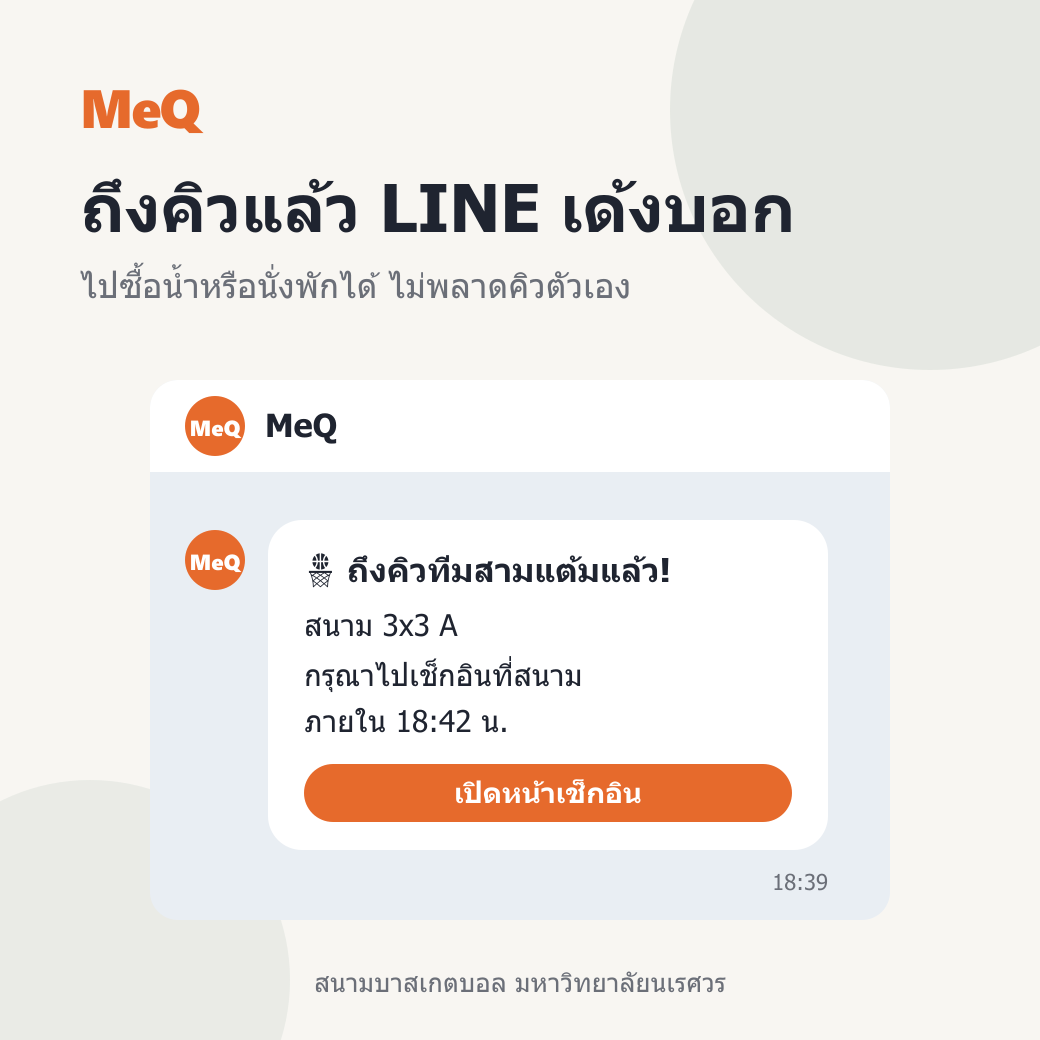
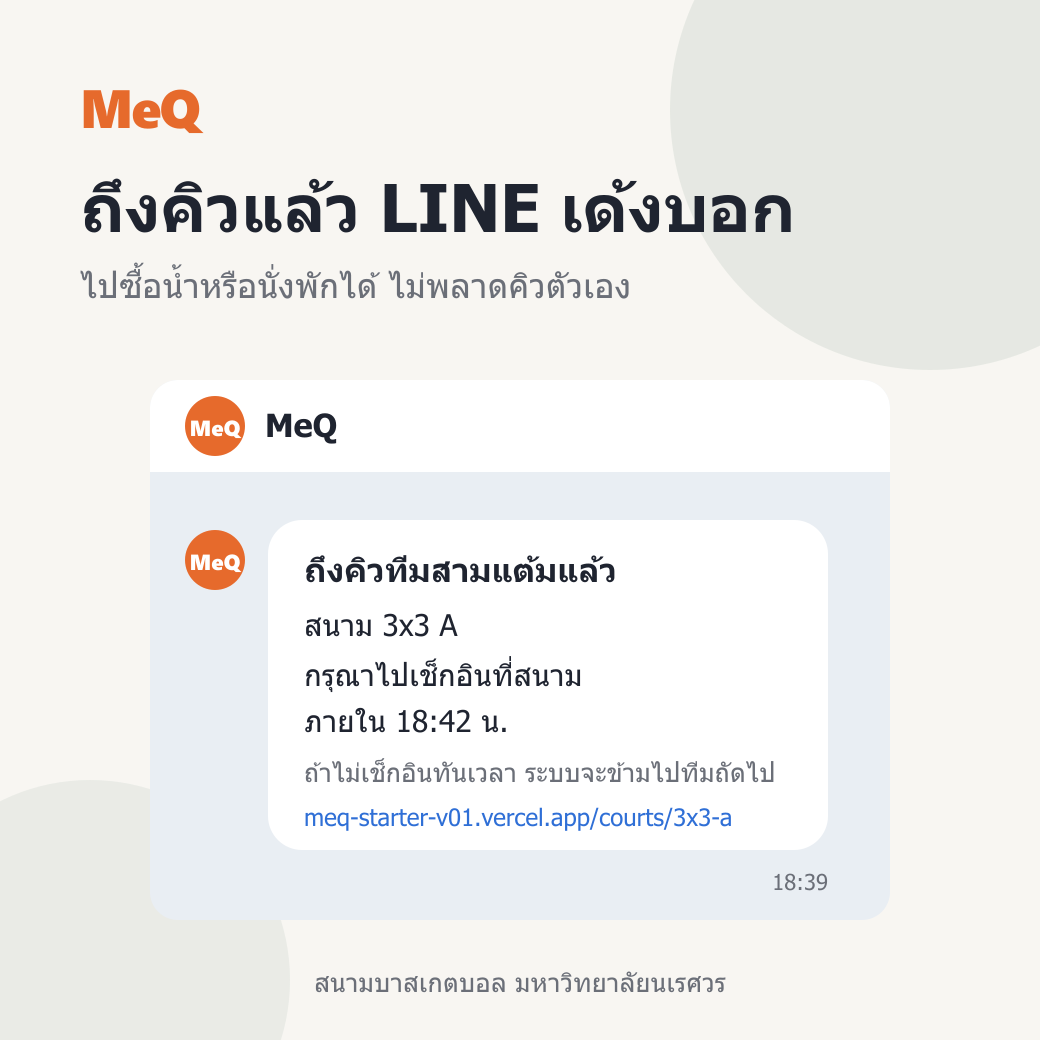
feat: plain-text LINE messages and next-in-line, invitation, result events
- Rewrite every LINE message as plain Thai text without emoji
- Notify team members when they become next in line, invitees when they
  are invited to a team, and players when a game result is final
- Dispatch right after queue, invitation, and score actions
- Regenerate the LINE OA feed image to match the real message

Changed region(s): [[0.2769, 0.7077, 0.7692, 0.8], [0.2769, 0.5231, 0.6462, 0.5846]]

diff --git a/app/courts/actions.ts b/app/courts/actions.ts
@@ -23,7 +23,8 @@ async function authenticatedClient(next: string) {
   return supabase;
 }
 
-function refreshQueue() { revalidatePath("/courts", "layout"); revalidatePath("/teams", "layout"); }
+// Queue changes can queue LINE messages (next in line, called to check in).
+function refreshQueue() { revalidatePath("/courts", "layout"); revalidatePath("/teams", "layout"); after(dispatchLineNotificationsQuietly); }
 
 export async function verifyCourtLocationAction(
   courtId: CourtId,
@@ -65,7 +66,7 @@ export async function leaveCourtQueueAction(formData: FormData) {
 
 export async function callNextQueueTeamAction(formData:FormData){
  const courtId=String(formData.get("courtId")) as CourtId;const supabase=await authenticatedClient(`/courts/${courtId}`);
- const{error}=await supabase.rpc("call_next_queue_team",{p_court_id:courtId});if(!error)after(dispatchLineNotificationsQuietly);refreshQueue();redirect(`/courts/${courtId}${error?`?error=${queueError(error)}`:"?notice=called"}#check-in`);
+ const{error}=await supabase.rpc("call_next_queue_team",{p_court_id:courtId});refreshQueue();redirect(`/courts/${courtId}${error?`?error=${queueError(error)}`:"?notice=called"}#check-in`);
 }
 
 export async function confirmTeamReadyAction(formData:FormData){

diff --git a/app/games/actions.ts b/app/games/actions.ts
@@ -2,6 +2,8 @@
 
 import { revalidatePath } from "next/cache";
 import { redirect } from "next/navigation";
+import { after } from "next/server";
+import { dispatchLineNotificationsQuietly } from "@/lib/line-dispatcher";
 import { createClient } from "@/lib/supabase/server";
 
 function code(error: { message?: string } | null) {
@@ -67,6 +69,8 @@ export async function submitTeamScoresAction(formData: FormData) {
     scores[userId] = value;
   }
   const { data, error } = await supabase.rpc("submit_team_scores", { p_game_id: id, p_scores: scores });
+  // A completed game queues result messages for every player.
+  if (!error) after(dispatchLineNotificationsQuietly);
   revalidatePath(`/games/${id}`); revalidatePath(`/games/${id}/scores`); revalidatePath(`/games/${id}/result`); revalidatePath("/courts", "layout");
   const result = Array.isArray(data) ? data[0] : data;
   redirect(error ? `/games/${id}/scores?error=${code(error)}` : result?.status === "COMPLETED" ? `/games/${id}/result` : `/games/${id}/scores?notice=submitted`);

diff --git a/app/teams/actions.ts b/app/teams/actions.ts
@@ -2,6 +2,8 @@
 
 import { revalidatePath } from "next/cache";
 import { redirect } from "next/navigation";
+import { after } from "next/server";
+import { dispatchLineNotificationsQuietly } from "@/lib/line-dispatcher";
 import { createClient } from "@/lib/supabase/server";
 import { normalizeTeamName, validateTeamName } from "@/lib/team-rules";
 import type { TeamType } from "@/lib/team-types";
@@ -51,6 +53,8 @@ export async function inviteTeamMemberAction(formData: FormData) {
   if (!valid) redirect("/teams?error=INVALID_REQUEST");
   const supabase = await authenticatedClient();
   const { error } = await supabase.rpc("invite_team_member", { p_team_id: teamId, p_user_id: userId });
+  // Tell the invitee on LINE.
+  if (!error) after(dispatchLineNotificationsQuietly);
   refreshTeamViews();
   redirect(`/teams/${teamId}${error ? `?error=${rpcError(error)}` : "?notice=invitation-sent"}`);
 }

diff --git a/PROGRESS.md b/PROGRESS.md
@@ -78,7 +78,8 @@
    - 2026-10-11: push migration `20261011090000` ขึ้น Supabase จริงแล้ว, ใส่ env 3 ตัวใน `.env.local` แล้ว, เจ้าของเพิ่มเพื่อน OA (@205hzelz) แล้ว
    - 2026-10-11: ทดสอบบน localhost สำเร็จ แจ้งซ่อมใหม่ → แอดมินได้ LINE, เปลี่ยนสถานะ → ผู้แจ้งได้ LINE (outbox = SENT, 1 attempt) ระหว่างทางแก้ LINE Login เสีย (Channel secret ใน Supabase ไม่ตรง + ใส่ Issuer URL `https://access.line.me`)
    - 2026-10-11: ขึ้นเว็บจริงครบ: Vercel env 4 ตัว (`NEXT_PUBLIC_APP_URL` ต้องเป็น type Config), Vault 2 ค่า, ทดสอบ cron → `/api/line/dispatch` → LINE ส่งสำเร็จ (เคย 401 เพราะใส่ secret ผิดตัวใน Vault)
-   - **รอออกแบบ:** ข้อความ LINE แยกตามบทบาท (แอดมิน / ผู้แจ้ง / สมาชิกทีม) เจ้าของจะออกแบบเอง ตอนนี้ข้อความอยู่ใน trigger ของ migration `20261011090000` และยังมีอีโมจิ ถ้าแก้ต้องทำ migration ใหม่ที่ `create or replace` ฟังก์ชัน `private.notify_*`
+   - 2026-10-12: ข้อความ LINE เป็นข้อความธรรมดาไม่มีอีโมจิ (เจ้าของเลือก) และเพิ่ม 3 เหตุการณ์: คิวถัดไป, ถูกเชิญเข้าทีม, ผลการแข่งขัน migration `20261012090000_line_message_copy.sql` (branch `docs/diagrams-and-line-copy`) **ยังไม่ push ขึ้น Supabase**
+   - 2026-10-12: อัปเดต diagram ทั้งหมด + PNG สำหรับเล่มใน `docs/diagrams/rendered/`
    - ⚠ Supabase secret key ที่ใช้ใน `.env.local` เคยถูกส่งในแชต เจ้าของเลือกยังไม่เปลี่ยน ควรสร้างใหม่และลบตัวเดิม (ขึ้นต้น `sb_secret_WRz1J`) (ตอนนี้ใส่ใน Vercel แล้วด้วย ถ้าเปลี่ยนต้องอัปเดตทั้ง `.env.local` และ Vercel)
    - ยังไม่มี: ปุ่มเพิ่มเพื่อน OA ในหน้าโปรไฟล์ สำหรับคนที่กดข้ามตอนล็อกอิน (ต้องใช้ลิงก์ OA)
 3. **หน้าคิวอัปเดตเอง** — ✅ ขึ้นเว็บจริงแล้ว (PR #4): หน้า `/courts/*` และ `/games/*` รีเฟรชข้อมูลจาก server ทุก 10 วินาที หยุดเมื่อแท็บซ่อน/ออฟไลน์/กำลังพิมพ์ แสดง "อัปเดตอัตโนมัติ · N วินาทีที่แล้ว" (`components/live-refresh.tsx`) เลือก polling แทน Realtime เพราะไม่ต้องเปิด RLS ให้ client อ่านตารางคิวโดยตรง

diff --git a/docs/architecture/line-notifications.md b/docs/architecture/line-notifications.md
@@ -6,7 +6,9 @@
 flowchart LR
     M["maintenance_reports insert"] -->|trigger| O["line_notifications<br/>PENDING"]
     H["maintenance_status_history insert"] -->|trigger| O
-    Q["queue_entries → CALLED"] -->|trigger| O
+    Q["queue_entries → next / CALLED"] -->|trigger| O
+    I["team_invitations insert"] -->|trigger| O
+    G["games → COMPLETED"] -->|trigger| O
     R["pg_cron 09:00<br/>waiting reminders"] --> O
     A["Server Action<br/>after()"] --> D["dispatchLineNotifications()"]
     C["pg_cron every minute<br/>pg_net POST"] --> API["/api/line/dispatch"] --> D
@@ -20,9 +22,12 @@ flowchart LR
 | New maintenance report | every `ADMIN` | 24 h |
 | Report status changed | reporter | 24 h |
 | Report `WAITING_FOR_CARETAKER` longer than `queue_settings.maintenance_reminder_days` (default 2) | every `ADMIN`, once per day | 12 h |
+| Team becomes first in the waiting line | every current team member, once per queue entry | 30 min |
 | Team called to check in | every current team member | check-in deadline |
+| Invited to a team | invitee | 24 h |
+| Game completed | every rostered player, with their own win or loss | 6 h |
 
-Court caretakers are never messaged. Admins phone them and track progress in the admin maintenance page.
+Messages are plain Thai text without emoji; the triggers in the latest migration that redefines `private.notify_*` hold the exact wording. Court caretakers are never messaged. Admins phone them and track progress in the admin maintenance page.
 
 Statuses: `PENDING` → `SENDING` → `SENT`, or `FAILED` (permanent error or 3 attempts), `EXPIRED` (not sent before `expires_at`), `SKIPPED` (recipient never signed in with LINE). While LINE is not configured, messages stay `PENDING` and expire, so turning LINE on later does not send a backlog of stale messages.
 

diff --git a/CLAUDE.md b/CLAUDE.md
@@ -75,4 +75,4 @@ Domain details that span files:
 
 ## Environment
 
-`.env.local` needs `NEXT_PUBLIC_SUPABASE_URL`, `NEXT_PUBLIC_SUPABASE_PUBLISHABLE_KEY`, and `NEXT_PUBLIC_APP_URL`. LINE Login is configured in Supabase as the custom OAuth provider `custom:line`. A database trigger copies LINE display name and avatar into `profiles`. LINE Messaging push notifications go through the `line_notifications` outbox (database triggers enqueue, `lib/line-dispatcher.ts` sends with the service role); see `docs/architecture/line-notifications.md` for the flow and the server-only env vars (`LINE_MESSAGING_ACCESS_TOKEN`, `SUPABASE_SERVICE_ROLE_KEY`, `LINE_DISPATCH_SECRET`). Notifications go to admins, reporters, and called team members, never to court caretakers. Supabase Realtime is not used.
+`.env.local` needs `NEXT_PUBLIC_SUPABASE_URL`, `NEXT_PUBLIC_SUPABASE_PUBLISHABLE_KEY`, and `NEXT_PUBLIC_APP_URL`. LINE Login is configured in Supabase as the custom OAuth provider `custom:line`. A database trigger copies LINE display name and avatar into `profiles`. LINE Messaging push notifications go through the `line_notifications` outbox (database triggers enqueue, `lib/line-dispatcher.ts` sends with the service role); see `docs/architecture/line-notifications.md` for the flow and the server-only env vars (`LINE_MESSAGING_ACCESS_TOKEN`, `SUPABASE_SERVICE_ROLE_KEY`, `LINE_DISPATCH_SECRET`). Notifications go to admins, reporters, invitees, players (next in line, called, game result), never to court caretakers. LINE copy is plain Thai text without emoji. Supabase Realtime is not used.
